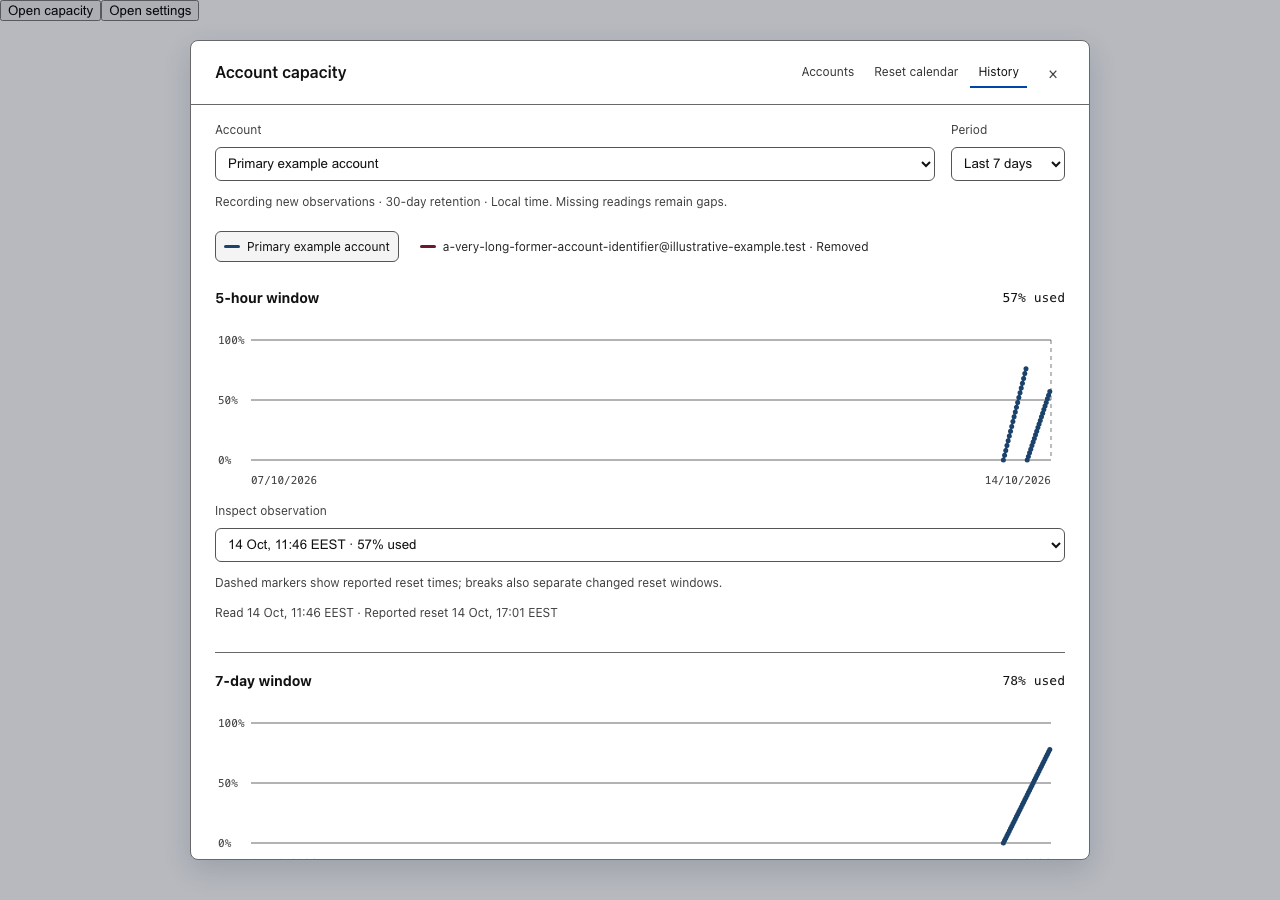
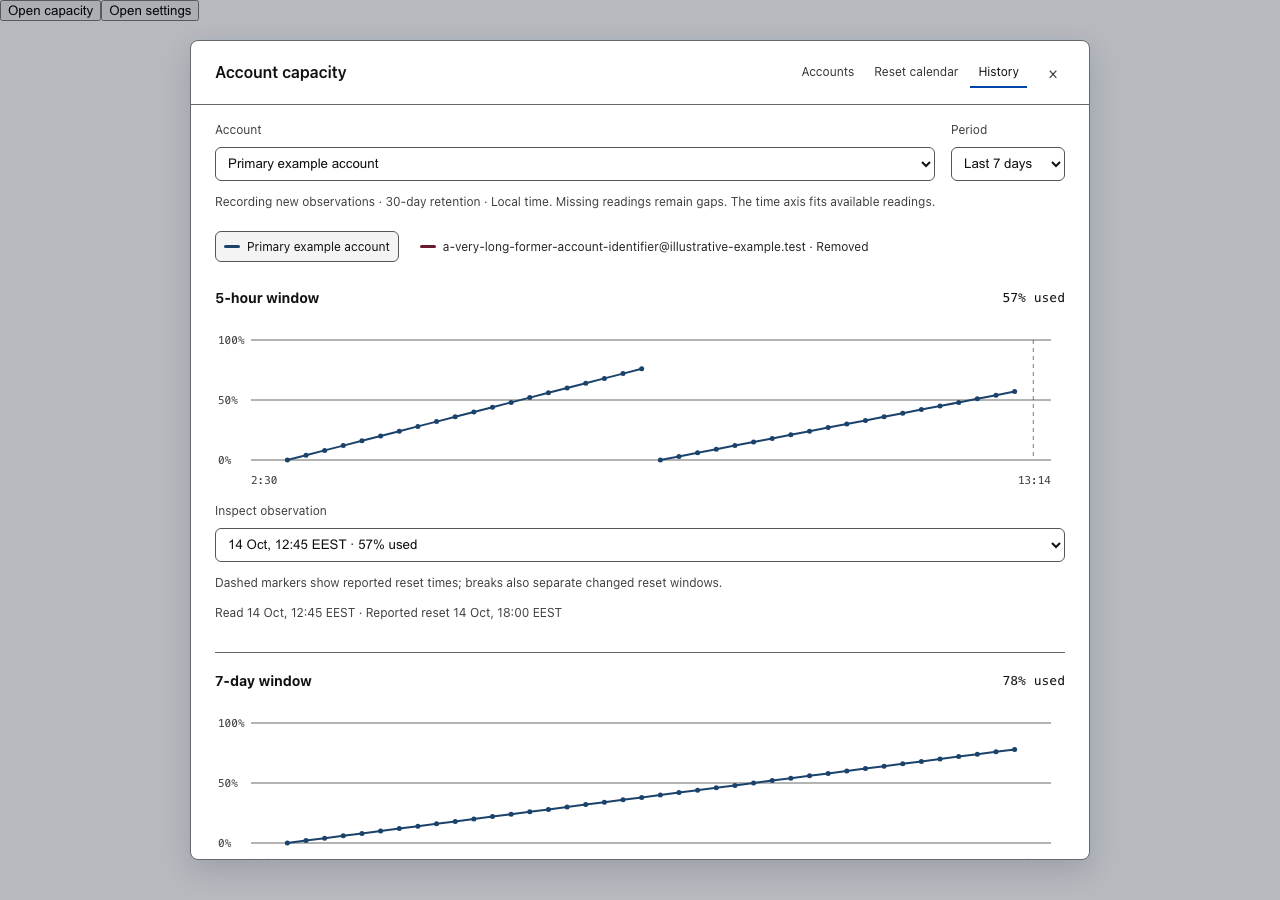
fix: fit history charts to available readings
Fit both usage charts to the observations within the selected lookback and show local times for short ranges. This keeps early history readable while preserving actual timestamps, gaps and account comparisons.

diff --git a/src/web/components/AccountHistoryView.tsx b/src/web/components/AccountHistoryView.tsx
@@ -4,6 +4,8 @@ import {
   type SnapshotAccount,
   historySegments,
   formatSnapshotTime,
+  historyTimeDomain,
+  formatHistoryAxis,
 } from "../account-history";
 import "./account-history.css";
 const stamp = formatSnapshotTime;
@@ -126,10 +128,10 @@ function HistoryChart({
           </g>
         ))}
         <text x="36" y="164">
-          {new Date(start).toLocaleDateString()}
+          {formatHistoryAxis(start, start, end)}
         </text>
         <text x={width - 14} y="164" textAnchor="end">
-          {new Date(end).toLocaleDateString()}
+          {formatHistoryAxis(end, start, end)}
         </text>
       </svg>
       <label className="ah-inspect">
@@ -208,14 +210,21 @@ export default function AccountHistoryView() {
     ...a,
     color: `hsl(${(210 + index * 137.508) % 360} 60% var(--session-accent-l, 65%))`,
   }));
-  const end = Date.now(),
-    start = end - days * 86400_000;
+  const now = Date.now(),
+    from = now - days * 86400_000;
   const series = colored
     .filter((a) => !selectedAccount || a.id === selectedAccount)
     .map((a) => ({
       ...a,
-      points: a.points.filter((p) => p.t >= start && p.t <= end),
+      points: a.points.filter((p) => p.t >= from && p.t <= now),
     }));
+  const { start, end } = historyTimeDomain(
+    series.flatMap((a) =>
+      a.points.filter((p) => p.five_hour || p.seven_day).map((p) => p.t),
+    ),
+    from,
+    now,
+  );
   const hasPoints = series.some((a) => a.points.length > 0);
   return (
     <div className="ah-workspace">
@@ -275,7 +284,7 @@ export default function AccountHistoryView() {
           <p className="ah-note">
             {data.enabled ? "Recording new observations" : "Recording paused"} ·{" "}
             {data.retentionDays}-day retention · Local time. Missing readings
-            remain gaps.
+            remain gaps. The time axis fits available readings.
           </p>
           {data.storageError && <p role="alert">{data.storageError}</p>}
           {data.accounts.length > 0 && (

diff --git a/src/web/__tests__/account-history-axis.test.ts b/src/web/__tests__/account-history-axis.test.ts
@@ -1,0 +1,56 @@
+import { describe, expect, it } from "vitest";
+import { formatHistoryAxis, historyTimeDomain } from "../account-history";
+
+const MINUTE = 60_000;
+const DAY = 86400_000;
+const now = Date.UTC(2026, 9, 14, 12);
+
+describe("adaptive history time axis", () => {
+  it("fits a few minutes of observations instead of a week of empty space", () => {
+    const { start, end } = historyTimeDomain(
+      [now - 5 * MINUTE, now],
+      now - 7 * DAY,
+      now,
+    );
+    expect(end - start).toBe(35 * MINUTE);
+    expect(start).toBe(now - 20 * MINUTE);
+    expect(end).toBe(now + 15 * MINUTE);
+  });
+
+  it("centers a single observation in a nonzero domain", () => {
+    const { start, end } = historyTimeDomain([now], now - 7 * DAY, now);
+    expect(end - start).toBe(30 * MINUTE);
+    expect((now - start) / (end - start)).toBe(0.5);
+  });
+
+  it("does not extend history with invalid or out-of-period observations", () => {
+    expect(
+      historyTimeDomain(
+        [NaN, Infinity, now - 10 * DAY, now + MINUTE, now],
+        now - 7 * DAY,
+        now,
+      ),
+    ).toEqual(historyTimeDomain([now], now - 7 * DAY, now));
+  });
+
+  it("preserves the empty-state range when no readings are available", () => {
+    expect(historyTimeDomain([], now - 7 * DAY, now)).toEqual({
+      start: now - 7 * DAY,
+      end: now,
+    });
+  });
+
+  it("uses proportional padding for longer history regardless of point order", () => {
+    expect(
+      historyTimeDomain([now, now - 6 * DAY, now], now - 7 * DAY, now),
+    ).toEqual({ start: now - 6.3 * DAY, end: now + 0.3 * DAY });
+  });
+
+  it("shows time for short ranges and dates for multi-day ranges", () => {
+    const short = formatHistoryAxis(now, now - MINUTE, now + MINUTE);
+    expect(short).toMatch(/\d{1,2}:\d{2}/);
+    const long = formatHistoryAxis(now, now - 7 * DAY, now);
+    expect(long).not.toMatch(/\d{1,2}:\d{2}/);
+    expect(long).toContain("14");
+  });
+});

diff --git a/src/web/account-history.ts b/src/web/account-history.ts
@@ -62,3 +62,28 @@ export const formatSnapshotTime = (t: number, timeZone?: string) =>
     timeZoneName: "short",
     ...(timeZone ? { timeZone } : {}),
   });
+
+/** Fit real observations, not the full lookback. Padding is viewing space only. */
+export function historyTimeDomain(times: number[], from: number, to: number) {
+  let first = Infinity;
+  let last = -Infinity;
+  for (const t of times) {
+    if (!Number.isFinite(t) || t < from || t > to) continue;
+    first = Math.min(first, t);
+    last = Math.max(last, t);
+  }
+  if (!Number.isFinite(first)) return { start: from, end: to };
+  const padding = Math.max(15 * 60_000, (last - first) * 0.05);
+  return { start: first - padding, end: last + padding };
+}
+
+export function formatHistoryAxis(t: number, start: number, end: number) {
+  const sameDay =
+    new Date(start).toDateString() === new Date(end).toDateString();
+  return new Date(t).toLocaleString(undefined, {
+    ...(sameDay ? {} : { month: "short", day: "numeric" }),
+    ...(end - start < 2 * 86400_000
+      ? { hour: "numeric", minute: "2-digit" }
+      : {}),
+  });
+}

diff --git a/.impeccable/surfaces/account-usage-history.md b/.impeccable/surfaces/account-usage-history.md
@@ -37,3 +37,9 @@ Not canonized: fixture launcher buttons and sample account identities are review
 History now defaults to All accounts, overlaying each account on the same time axis in both windows. A shared legend names the accounts and matches line colors. Clicking a legend entry isolates that account; clicking it again or selecting All accounts restores the combined view. Colors name accounts, not quota health, and remain consistent between the two windows and single-account filtering. Observation keys include both account identity and timestamp, keeping simultaneous readings distinct.
 
 Browser checks cover the default combined series, legend filtering/restoration, account and period changes, missing windows and narrow/light/short states. Historical snapshots, collection and retention are unchanged.
+
+## Adaptive time extent (owner refinement)
+
+The period selector is a maximum lookback filter, not a forced plot width. Both windows share an extent fitted to the selected accounts' visible observations, with 5% padding (at least 15 minutes per edge). A single reading is centered in a 30-minute view; padding never creates observations or implies renewed capacity. Empty periods retain the explicit empty state. Short spans display local times, adding dates across day boundaries; longer spans display dates. No persistence, refresh, retention or usage semantics changed.
+
+Verification: 6 deterministic axis tests and 21 snapshot regression tests passed; TypeScript and production build passed. Browser assertions verify recent readings fill more than 85% of the plot and a single reading is centered, alongside existing selection, settings, empty/error recovery and responsive checks. Updated desktop, single-point and narrow renders were inspected. Evidence remains controlled data, not live-provider certification.
